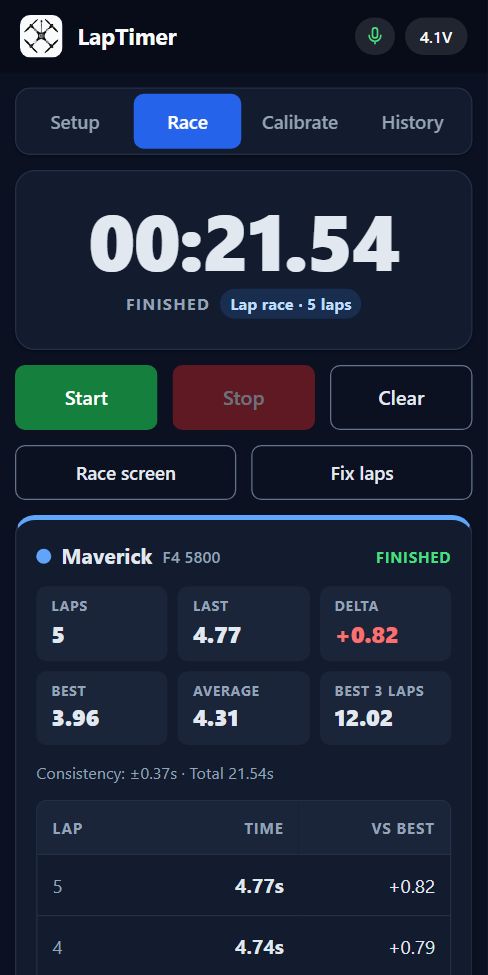
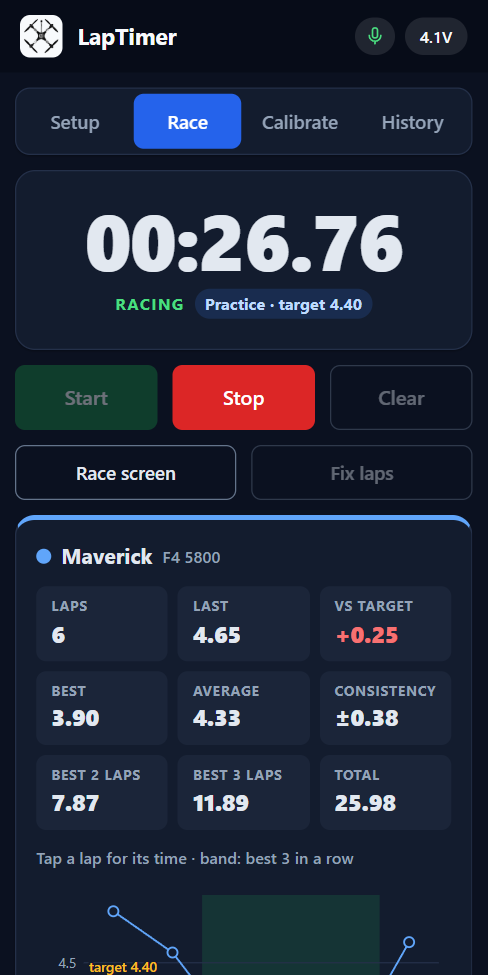
README: new screenshots of v1.2.0, taken by a script
All screenshots retaken (they were from v1.1.0): target lap and saved pilots with targets,
the Race tab with "vs target" and best 2/3, the race screen, calibration with
auto-calibration's suggestion, the channel scan, a saved race with its lap chart (target,
best 3 in a row, a crash lap kept off the scale), Fix laps, the race picture to share
(new) and the update page.

tools/readme_images.js takes them from the mock in a headless Chrome (390 px at 1.25x, dark
theme): run it after visible UI changes.

Claude-Session: https://claude.ai/code/session_01QtsjB4WLZCYjTiDzQDCVAy

diff --git a/tools/readme_images.js b/tools/readme_images.js
@@ -1,0 +1,257 @@
+// Takes the README's screenshots (docs/images) from the mock in a headless Chrome: a phone
+// (390 px at 1.25x), dark theme, the same framing every time. Run it after a UI change.
+//
+//   python tools/mock_server.py                (in another window)
+//   node tools/readme_images.js [folder]       default docs/images
+//
+// It resets the mock first and flies a short practice there (about a minute in all). Needs
+// Node 22+ (WebSocket) and Chrome or Edge (or the CHROME environment variable).
+const { spawn, spawnSync } = require("child_process");
+const fs = require("fs");
+const os = require("os");
+const path = require("path");
+
+const MOCK = "http://127.0.0.1:8765";
+const OUT = path.resolve(process.argv[2] || path.join(__dirname, "..", "docs", "images"));
+const WIDTH = 390; // css px, a phone
+const HEIGHT = 780;
+const SCALE = 1.25; // 488 px wide files, shown 240 px wide in the README
+const BROWSERS = [
+  process.env.CHROME,
+  "C:/Program Files/Google/Chrome/Application/chrome.exe",
+  "C:/Program Files (x86)/Google/Chrome/Application/chrome.exe",
+  "C:/Program Files (x86)/Microsoft/Edge/Application/msedge.exe",
+  "/Applications/Google Chrome.app/Contents/MacOS/Google Chrome",
+  "/usr/bin/google-chrome",
+  "/usr/bin/chromium",
+];
+const sleep = (ms) => new Promise((r) => setTimeout(r, ms));
+const mock = (p) => fetch(MOCK + "/mock/" + p).then((r) => r.json());
+const post = (p, body) =>
+  fetch(MOCK + p, { method: "POST", headers: { "Content-Type": "application/json" }, body: JSON.stringify(body || {}) });
+
+async function main() {
+  try {
+    await fetch(MOCK + "/api/info");
+  } catch (e) {
+    console.error(`The mock isn't running: start python tools/mock_server.py first (${MOCK}).`);
+    return 2;
+  }
+  const browser = BROWSERS.find((b) => b && fs.existsSync(b));
+  if (!browser) {
+    console.error("No Chrome or Edge found: set CHROME to its path.");
+    return 2;
+  }
+  fs.mkdirSync(OUT, { recursive: true });
+  const profile = fs.mkdtempSync(path.join(os.tmpdir(), "laptimer-readme-images-"));
+  const chrome = spawn(browser, ["--headless=new", "--remote-debugging-port=0", `--user-data-dir=${profile}`,
+    "--no-first-run", "--no-default-browser-check", "--hide-scrollbars", "about:blank"], { stdio: "ignore" });
+  try {
+    let target = null;
+    for (let i = 0; i < 100 && !target; i++) {
+      try {
+        const port = fs.readFileSync(path.join(profile, "DevToolsActivePort"), "utf8").split("\n")[0].trim();
+        target = (await (await fetch(`http://127.0.0.1:${port}/json/list`)).json()).find((t) => t.type === "page");
+      } catch (e) {
+        // still starting
+      }
+      if (!target) await sleep(200);
+    }
+    if (!target) throw new Error("the browser didn't start");
+    const ws = new WebSocket(target.webSocketDebuggerUrl);
+    await new Promise((resolve, reject) => {
+      ws.onopen = resolve;
+      ws.onerror = reject;
+    });
+    let nextId = 0;
+    const pending = new Map();
+    const listeners = new Map();
+    ws.onmessage = (message) => {
+      const msg = JSON.parse(message.data);
+      if (msg.id && pending.has(msg.id)) {
+        const { resolve, reject } = pending.get(msg.id);
+        pending.delete(msg.id);
+        if (msg.error) reject(new Error(msg.error.message));
+        else resolve(msg.result);
+      } else if (msg.method && listeners.has(msg.method)) {
+        listeners.get(msg.method)(msg.params);
+      }
+    };
+    const send = (method, params = {}) =>
+      new Promise((resolve, reject) => {
+        const id = ++nextId;
+        pending.set(id, { resolve, reject });
+        ws.send(JSON.stringify({ id, method, params }));
+      });
+    const ev = async (expression) => {
+      const r = await send("Runtime.evaluate", { expression, awaitPromise: true, returnByValue: true });
+      if (r.exceptionDetails) throw new Error(`${expression.slice(0, 80)}: ${r.exceptionDetails.exception.description}`);
+      return r.result.value;
+    };
+    const until = async (expression, ms = 15000) => {
+      for (const end = Date.now() + ms; Date.now() < end; await sleep(200)) {
+        if (await ev(`(() => { try { return !!(${expression}); } catch (e) { return false; } })()`)) return;
+      }
+      throw new Error("timed out waiting for " + expression);
+    };
+    const viewport = (height = HEIGHT) =>
+      send("Emulation.setDeviceMetricsOverride", { width: WIDTH, height, deviceScaleFactor: SCALE, mobile: true });
+    // the page as it is on screen (height: a shorter picture, e.g. one card)
+    const shot = async (name, height = HEIGHT) => {
+      if (height !== HEIGHT) await viewport(height);
+      await sleep(500); // transitions, the chart's resize
+      const { data } = await send("Page.captureScreenshot", { format: "png" });
+      fs.writeFileSync(path.join(OUT, name), Buffer.from(data, "base64"));
+      if (height !== HEIGHT) await viewport();
+      console.log("  " + name);
+    };
+    const open = async (url) => {
+      const loaded = new Promise((resolve) => listeners.set("Page.loadEventFired", resolve));
+      await send("Page.navigate", { url });
+      await loaded;
+    };
+    // A part of the page, from the top of one element to the bottom of another (12 px around):
+    // the screen is made that tall and scrolled to it, the tab bar not pinned to the top
+    const region = async (name, top, bottom) => {
+      const box = await ev(`(() => {
+        document.head.insertAdjacentHTML("beforeend", '<style id="shotStyle">.tabs { position: static !important; }</style>');
+        document.body.style.paddingBottom = "${HEIGHT}px"; // room to scroll the last card up
+        const t = document.querySelector(${JSON.stringify(top)}).getBoundingClientRect().top + scrollY - 12;
+        const b = document.querySelector(${JSON.stringify(bottom)}).getBoundingClientRect().bottom + scrollY + 12;
+        return [t, Math.ceil(b - t)];
+      })()`);
+      await viewport(box[1]);
+      await ev(`window.scrollTo(0, ${box[0]})`);
+      await sleep(500);
+      const { data } = await send("Page.captureScreenshot", { format: "png" });
+      fs.writeFileSync(path.join(OUT, name), Buffer.from(data, "base64"));
+      await viewport();
+      await ev(`document.getElementById("shotStyle").remove(); document.body.style.paddingBottom = ""`);
+      console.log(`  ${name} (${box[1]} px tall)`);
+    };
+    // an element just below the tab bar (it sticks to the top of the screen when scrolled)
+    const scrollTo = (selector, gap = 12) =>
+      ev(`window.scrollTo(0, document.querySelector(${JSON.stringify(selector)}).getBoundingClientRect().top + scrollY
+        - document.querySelector(".tabs").offsetHeight - 2 * ${gap})`);
+
+    await send("Page.enable");
+    await send("Emulation.setEmulatedMedia", { features: [{ name: "prefers-color-scheme", value: "dark" }] });
+    await send("Emulation.setFocusEmulationEnabled", { enabled: true });
+    await viewport();
+
+    // the timer: Maverick on F4 with a pace target, two more saved pilots, sample races
+    await mock("reset");
+    await mock("lap?s=4.4");
+    await post("/config", { target: 4400, countdown: false, raceMode: 0, anType: 2, anDelta: false, anTarget: true });
+    await post("/api/profiles/save", { name: "Maverick", freq: 5800, enter: 120, exit: 100, target: 4400 });
+    await open(MOCK + "/");
+    await ev(`localStorage.setItem("voiceCommands", "0"); localStorage.setItem("voiceOn", "1")`);
+    await open(MOCK + "/");
+    await until("configLoaded && status && profiles.length === 3");
+    await ev(`setMicState("listening")`); // as on a phone with voice commands working
+
+    console.log(`Screenshots in ${OUT}:`);
+    await ev(`openTab("config"); window.scrollTo(0, 0)`);
+    await shot("setup.png");
+
+    // a practice with the target, a few laps in
+    await ev(`openTab("race"); startRace()`);
+    await until(`raceData && status && raceData.race === status.race && racePilot(raceData).laps.length >= 7`, 60000);
+    await ev(`setMicState("listening")`);
+    await ev(`window.scrollTo(0, 0)`);
+    await shot("race.png");
+    await ev(`window.scrollTo(0, 0); document.getElementById("raceScreenButton").click()`);
+    await sleep(1200); // "This lap" running
+    await shot("race-screen.png");
+    await ev(`closeRaceScreen(false); stopRace()`);
+    await until(`status.state === STATE.IDLE`);
+
+    // calibration: passes every 2.4 s (minimum lap 2 s), auto-calibration listening
+    await mock("lap?s=2.4");
+    await post("/config", { minLap: 20 });
+    await until(`+ui.minLap.value === 2`);
+    await ev(`openTab("calib"); window.scrollTo(0, 0)`);
+    await ev(`document.getElementById("autoCal").click()`);
+    await until(`document.getElementById("applyAutoCal")`, 30000);
+    await region("calibrate.png", "#calib .card", "#applyAutoCal"); // the graph to the suggestion
+    await ev(`document.getElementById("spectrumButton").click()`);
+    await until(`document.getElementById("spectrumButton").textContent === "Scan again"`, 20000);
+    await sleep(1500); // the chart eases to its values
+    await ev(`document.getElementById("spectrum").closest(".card").id = "scanCard"`);
+    await region("channel-scan.png", "#scanCard", "#scanCard");
+
+    // History: a race with a crash lap (kept off the chart's scale) and a target, fixing laps
+    await ev(`openTab("history"); window.scrollTo(0, 0)`);
+    await until(`document.querySelectorAll(".history-item").length >= 6`); // and the practice flown above
+    const openRace = async (title, fix) => {
+      await ev(`(() => { const item = [...document.querySelectorAll(".history-item")].find((i) => i.textContent.includes(${JSON.stringify(title)}));
+        item.querySelector(".history-summary").click(); item.id = "shotItem"; })()`);
+      await until(`document.querySelector("#shotItem .history-detail .button-row")`);
+      if (fix) {
+        await ev(`[...document.querySelectorAll("#shotItem button")].find((b) => b.textContent === "Fix laps").click()`);
+        await until(`document.querySelector("#shotItem .lap-actions button")`);
+      }
+      await sleep(400);
+      await scrollTo("#shotItem");
+    };
+    await openRace("Timed race");
+    await shot("history.png");
+    await ev(`document.querySelector("#shotItem .history-summary").click(); document.getElementById("shotItem").id = ""`);
+    await openRace("Lap race", true);
+    await shot("fix-laps.png");
+
+    // the race picture History shares (1080 px) of the 45-lap practice, saved at half size
+    {
+      const name = "race-image.png";
+      const url = await ev(`(async () => {
+        const id = (await fetchJson("/api/races")).find((r) => r.name === "Evening session at the field").id;
+        const race = await fetchJson("/api/races?id=" + id);
+        const { blob } = await raceImage(race);
+        const img = await createImageBitmap(blob);
+        const c = document.createElement("canvas");
+        c.width = Math.round(img.width / 2);
+        c.height = Math.round(img.height / 2);
+        const g = c.getContext("2d");
+        g.imageSmoothingQuality = "high";
+        g.drawImage(img, 0, 0, c.width, c.height);
+        return c.toDataURL("image/png");
+      })()`);
+      fs.writeFileSync(path.join(OUT, name), Buffer.from(url.split(",")[1], "base64"));
+      console.log("  " + name);
+    }
+
+    // the firmware update page
+    await open(MOCK + "/update.html");
+    await sleep(800);
+    // the firmware's version, not the mock's "-dev"
+    const version = fs.readFileSync(path.join(__dirname, "..", "lib", "WEBSERVER", "webserver.h"), "utf8").match(/FIRMWARE_VERSION "([^"]+)"/)[1];
+    await ev(`document.getElementById("version").textContent = ${JSON.stringify(version)}`);
+    await shot("update.png", 600);
+    ws.close();
+    return 0;
+  } finally {
+    if (process.platform === "win32") {
+      const folder = path.basename(profile);
+      spawnSync("powershell", ["-NoProfile", "-Command",
+        `Get-CimInstance Win32_Process | Where-Object { $_.CommandLine -like '*${folder}*' } | ForEach-Object { Stop-Process -Id $_.ProcessId -Force -ErrorAction SilentlyContinue }`],
+        { stdio: "ignore" });
+    } else {
+      chrome.kill();
+    }
+    await mock("reset").catch(() => {});
+    await sleep(1000);
+    try {
+      fs.rmSync(profile, { recursive: true, force: true });
+    } catch (e) {
+      // Chrome may still hold a file for a moment
+    }
+  }
+}
+
+main().then(
+  (code) => process.exit(code),
+  (e) => {
+    console.error(e);
+    process.exit(2);
+  },
+);

diff --git a/README.md b/README.md
@@ -8,9 +8,9 @@ Based on [PhobosLT](https://github.com/phobos-/PhobosLT) and
 [PhobosLT_pooling](https://github.com/nikbg3/PhobosLT_pooling).
 
 <p align="center">
-  <img src="docs/images/setup.png" width="240" alt="Setup: pilot, channel and saved pilots" />
-  <img src="docs/images/race.png" width="240" alt="Race: clock and lap stats" />
-  <img src="docs/images/race-screen.png" width="240" alt="Race screen: big numbers for the field" />
+  <img src="docs/images/setup.png" width="240" alt="Setup: pilot, channel, target lap and saved pilots" />
+  <img src="docs/images/race.png" width="240" alt="Race: clock, pace target and lap stats" />
+  <img src="docs/images/race-screen.png" width="240" alt="Race screen: big numbers for the field, best 2 and 3 laps, target" />
 </p>
 
 ## Features
@@ -60,9 +60,13 @@ Based on [PhobosLT](https://github.com/phobos-/PhobosLT) and
 - Settings save automatically and stay consistent across several open phones.
 
 <p align="center">
-  <img src="docs/images/calibrate.png" width="240" alt="Calibration graph with enter and exit thresholds" />
+  <img src="docs/images/calibrate.png" width="240" alt="Calibration graph with Enter and Exit, and auto-calibration's suggestion" />
   <img src="docs/images/channel-scan.png" width="240" alt="Channel scan with the pilot's channel marked" />
+  <img src="docs/images/history.png" width="240" alt="A saved race: stats and the lap chart with the target, the best 3 in a row and a crash lap kept off the scale" />
+</p>
+<p align="center">
   <img src="docs/images/fix-laps.png" width="240" alt="Fixing laps in the race history" />
+  <img src="docs/images/race-image.png" width="240" alt="The race picture to share: stats, chart, target and every lap" />
 </p>
 
 ## Hardware
@@ -221,6 +225,7 @@ log and hotspot signal scripts.
 Tests: `python tools/mock_server.py`, then `node tools/run_page_test.js` checks the web page
 in a headless Chrome (every tab, both themes at phone width, two phones, connection loss), and
 `python tools/device_test.py <timer-ip>` checks the timer's API (also against the mock).
+`node tools/readme_images.js` takes this README's screenshots from the mock.
 
 ## License
 

diff --git a/CLAUDE.md b/CLAUDE.md
@@ -22,7 +22,8 @@ Every change goes through all steps; a step is done when its check passes.
    (lap detection needs a drone through the gate).
 5. **Review** larger batches (`main...<branch>`) and fix what holds up.
 6. **Commit and push** the branch. A release: merge to `main`, tag, GitHub release with
-   `laptimer-vX.Y.Z-firmware.bin` and `laptimer-vX.Y.Z-littlefs.bin`.
+   `laptimer-vX.Y.Z-firmware.bin` and `laptimer-vX.Y.Z-littlefs.bin`. After visible UI changes
+   `node tools/readme_images.js` retakes the README's screenshots (docs/images) from the mock.
 
 ## Design principles
 
